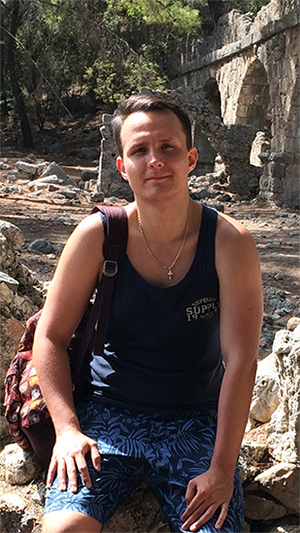
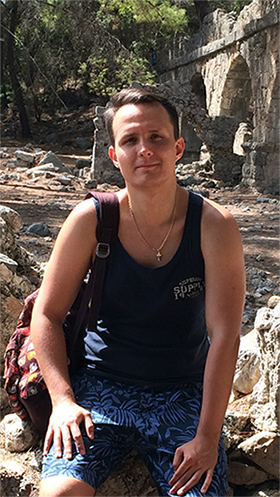
адаптивная стилизация дисклеймера и добавление иконочного спрайта + кликабельность всего

diff --git a/belka.html b/belka.html
@@ -226,14 +226,14 @@ Cкалолазы смогут найти подробную схему
   </main>
 
   <footer class="main-footer clearfix">
-    <h2 class="main-footer__title">Дисклеймер на Float</h2>
+    <h2 class="main-footer__title">Дисклеймер на Float + Sprite</h2>
     <div class="main-footer__container">
       <div class="used-features">
         <h3 class="used-features-title">При верстке данного макета были использованны:</h3>
         <ul class="used-features__list">
           <li class="used-features__item">
             <h4>HTML5</h4>
-            <p> Старался делать целевую, адекватную семантику. Надеюсь, получилось приблизится к прекрасному, с учетом того холивара, что стоит вокруг этой темы.</p>
+            <p> Старался делать целевую, адекватную семантику. Надеюсь, получилось приблизится к прекрасному.</p>
           </li>
 
           <li class="used-features__item">
@@ -243,17 +243,17 @@ Cкалолазы смогут найти подробную схему
 
           <li class="used-features__item">
             <h4>CSS3</h4>
-            <p> Анимации, псевдоклассы, псевдоэлементы, (dib) + float для доходяги и попытка придерживаться единого читабельного код-гайда.</p>
+            <p> Анимации, псевдоклассы, псевдоэлементы, (dib) + float для доходяги -IE9 и попытка придерживаться единого читабельного код-гайда.</p>
           </li>
 
           <li class="used-features__item">
             <h4>@media</h4>
-            <p>Один блок на полноценном mobile-first. Остальное казалось правильнее делать не следуя этой методологии. Либо нехватка опыта, либо проницательность - время покажет.</p>
+            <p>Два блока на полноценном mobile-first. Остальное казалось правильнее делать не следуя этой методологии. Либо нехватка опыта, либо проницательность - время покажет.</p>
           </li>
 
           <li class="used-features__item">
             <h4>jQuery + slick.js</h4>
-            <p>Пока на этапе благоговения перед их возможностями и что они вообще работают, но другие крутые фреймворки и нативный js уже машут мне рукой из прекрасного далёка.</p>
+            <p>Пока на этапе благоговения перед их возможностями и что они вообще работают, но уже присматриваюсь к другим крутым фреймворки и нативному js.</p>
           </li>
 
           <li class="used-features__item">
@@ -269,13 +269,22 @@ Cкалолазы смогут найти подробную схему
       </div>
 
       <div class="contact-litvinenko">
-        <img src="img/me.jpg" alt="Литвиненко Борис Дмитриевич в древней Греческой колонии - Фазелис" width="300" height="533" >
+
+        <img src="img/me.jpg" alt="Литвиненко Борис Дмитриевич в древней Греческой колонии - Фазелис" width="280" height="497">
+
         <h3 class="contact-litvinenko__semantic-hide-title">Литвиненко Борис Дмитриевич и его контакты</h3>
-        <h4>Связаться со мной по вопросам работы и сотрудничества</h4>
-        <a class="social-button"></a>
-        <a class="social-button"></a>
-        <a class="social-button"></a>
-        <a href="tel://+79313149807">Позвонить в один клик, или набрать 8(931)314-98-07</a>
+        <h4>Связаться со мной по вопросам трудоустройства или сотрудничества :</h4>
+        <a href="tel://+79313149807">Телефон 8(931)314-98-07</a>
+        <a href="mailto:boris12lit@gmail.com">Почта boris12lit@gmail.com</a>
+
+      <div class="social-button__container">
+        <a href="https://vk.com/id49386167" class="social-button social-button__vk" target="_blank"></a>
+        <a href="mailto:boris12lit@gmail.com" class="social-button social-button__gmail" target="_blank"></a>
+        <a href="https://github.com/LitvinenkoBD" class="
+        social-button social-button__git" target="_blank"></a>
+      </div>
+
+
       </div>
     </div>
   </footer>

diff --git a/css/style.css b/css/style.css
@@ -1028,7 +1028,7 @@ a {
 }
 
 .main-footer {
-  background-color: #ccc/*#8e9d9d*/;
+  background-color: #ccc
 }
 
 .main-footer__title {
@@ -1083,13 +1083,26 @@ a {
 
   font-family: Montserrat, sant-serif;
   font-weight: 700;
-  font-size: 16px;
+  font-size: 18px;
   color: #000;
+}
+.used-features__item {
+  margin-top: 40px;
+  padding-bottom: 5px;
+
+  border-bottom: 1px solid #000;
+}
+.used-features__item:first-child {
+  margin-top: 20px;
+}
+.used-features__item h4 {
+  line-height: 30px;
 }
 
 .used-features__item p {
   margin-top: 5px;
 
+  line-height: 30px;
   font-family: Montserrat, sant-serif;
   font-weight: 400;
   font-size: 16px;
@@ -1110,15 +1123,27 @@ a {
 .contact-litvinenko__semantic-hide-title {
   display: none;
 }
+.contact-litvinenko a {
+  display: block;
+  padding: 10px 5px 0px 5px;
 
+  font-family: Montserrat, sant-serif;
+  font-weight: 400;
+  font-size: 16px;
+  color: #000;
+
+}
 @media (min-width: 320px) {
   .main-footer__container {
-  width: 320px;
+  width: 310px;
   margin: 0 auto;
   }
   .used-features {
   width: 100%;
-  margin: 0 15px;
+  padding: 0 15px;
+  -webkit-box-sizing: border-box;
+  -moz-box-sizing: border-box;
+  box-sizing: border-box;
   }
   .contact-litvinenko {
   width: 100%;
@@ -1128,10 +1153,10 @@ a {
 
 @media (min-width: 768px) {
   .main-footer__container {
-  width: 768px;
+  width: 758px;
   }
   .used-features {
-  margin: 0 15px;
+  padding: 0 15px;
   }
   .contact-litvinenko {
   padding: 0 15px;
@@ -1145,8 +1170,8 @@ a {
   }
 
   .used-features {
-  margin: 0 44px;
-  width: 50%;
+  padding: 0 44px;
+  width: 55%;
   }
 
   .contact-litvinenko {
@@ -1164,7 +1189,102 @@ a {
 
 
 
+/* Generated by http://css.spritegen.com CSS Sprite Generator
+осознанно скопировал этот коммент от разрабов - ибо уважуха*/
+.social-button__container{
+  width: 100%;
+  margin: 0 auto;
 
+
+}
+
+.social-button.social-button__vk,
+.social-button.social-button__gmail,
+.social-button.social-button__git {
+  display: inline-block;
+
+  margin-top: 20px;
+  margin-right: 40px;
+  margin-left: 5px;
+
+  background: url('../img/1sprite-ico.png') no-repeat;
+  overflow: hidden;
+  text-indent: -9999px;
+  text-align: center;
+}
+
+.social-button.social-button__vk {
+  background-position: -5px -0px; width: 53px; height: 25px;
+}
+
+.social-button.social-button__gmail {
+  background-position: -5px -70px; width: 40px; height: 25px;
+}
+
+.social-button.social-button__git {
+  background-position: -5px -210px; width: 30px; height: 25px;
+}
+
+.used-features__item:before {
+  content: '';
+
+  float: left;
+  padding-right: 10px;
+  margin-left: 5px;
+
+  background: url('../img/1sprite-ico.png') no-repeat;
+  overflow: hidden;
+  text-indent: -9999px;
+  text-align: left;
+}
+
+.used-features__item:nth-child(1):before {
+  background-position: -5px -280px; width: 26px; height: 30px;
+}
+
+.used-features__item:nth-child(2):before {
+  background-position: -5px -105px; width: 30px; height: 30px;
+}
+
+.used-features__item:nth-child(3):before {
+  background-position: -5px -245px; width: 27px; height: 30px;
+}
+
+.used-features__item:nth-child(4):before {
+  background-position: -5px -35px; width: 40px; height: 30px;
+}
+
+.used-features__item:nth-child(5):before {
+  background-position: -5px -315px; width: 26px; height: 30px;
+}
+
+.used-features__item:nth-child(6):before {
+  background-position: -5px -175px; width: 30px; height: 30px;
+}
+
+.used-features__item:nth-child(7):before {
+  background-position: -5px -140px; width: 30px; height: 30px;
+}
+
+.icos-vk-ico, .icos-adapt-ico, .icos-gmail-ico, .icos-bem-ico, .icos-emmet-ico,
+.icos-git-ico, .icos-git-user-ico, .icos-css-ico, .icos-html-ico, .icos-js-ico
+
+{ display: inline-block;
+  background: url('png.png') no-repeat;
+  overflow: hidden;
+  text-indent: -9999px;
+  text-align: left; }
+
+.icos-vk-ico { background-position: -5px -0px; width: 53px; height: 30px; }
+.icos-adapt-ico { background-position: -5px -35px; width: 40px; height: 30px; }
+.icos-gmail-ico { background-position: -5px -70px; width: 40px; height: 30px; }
+.icos-bem-ico { background-position: -5px -105px; width: 30px; height: 30px; }
+.icos-emmet-ico { background-position: -5px -140px; width: 30px; height: 30px; }
+.icos-git-ico { background-position: -5px -175px; width: 30px; height: 30px; }
+.icos-git-user-ico { background-position: -5px -210px; width: 30px; height: 30px; }
+.icos-css-ico { background-position: -5px -245px; width: 27px; height: 30px; }
+.icos-html-ico { background-position: -5px -280px; width: 26px; height: 30px; }
+.icos-js-ico { background-position: -5px -315px; width: 26px; height: 30px; }
 
 
 
